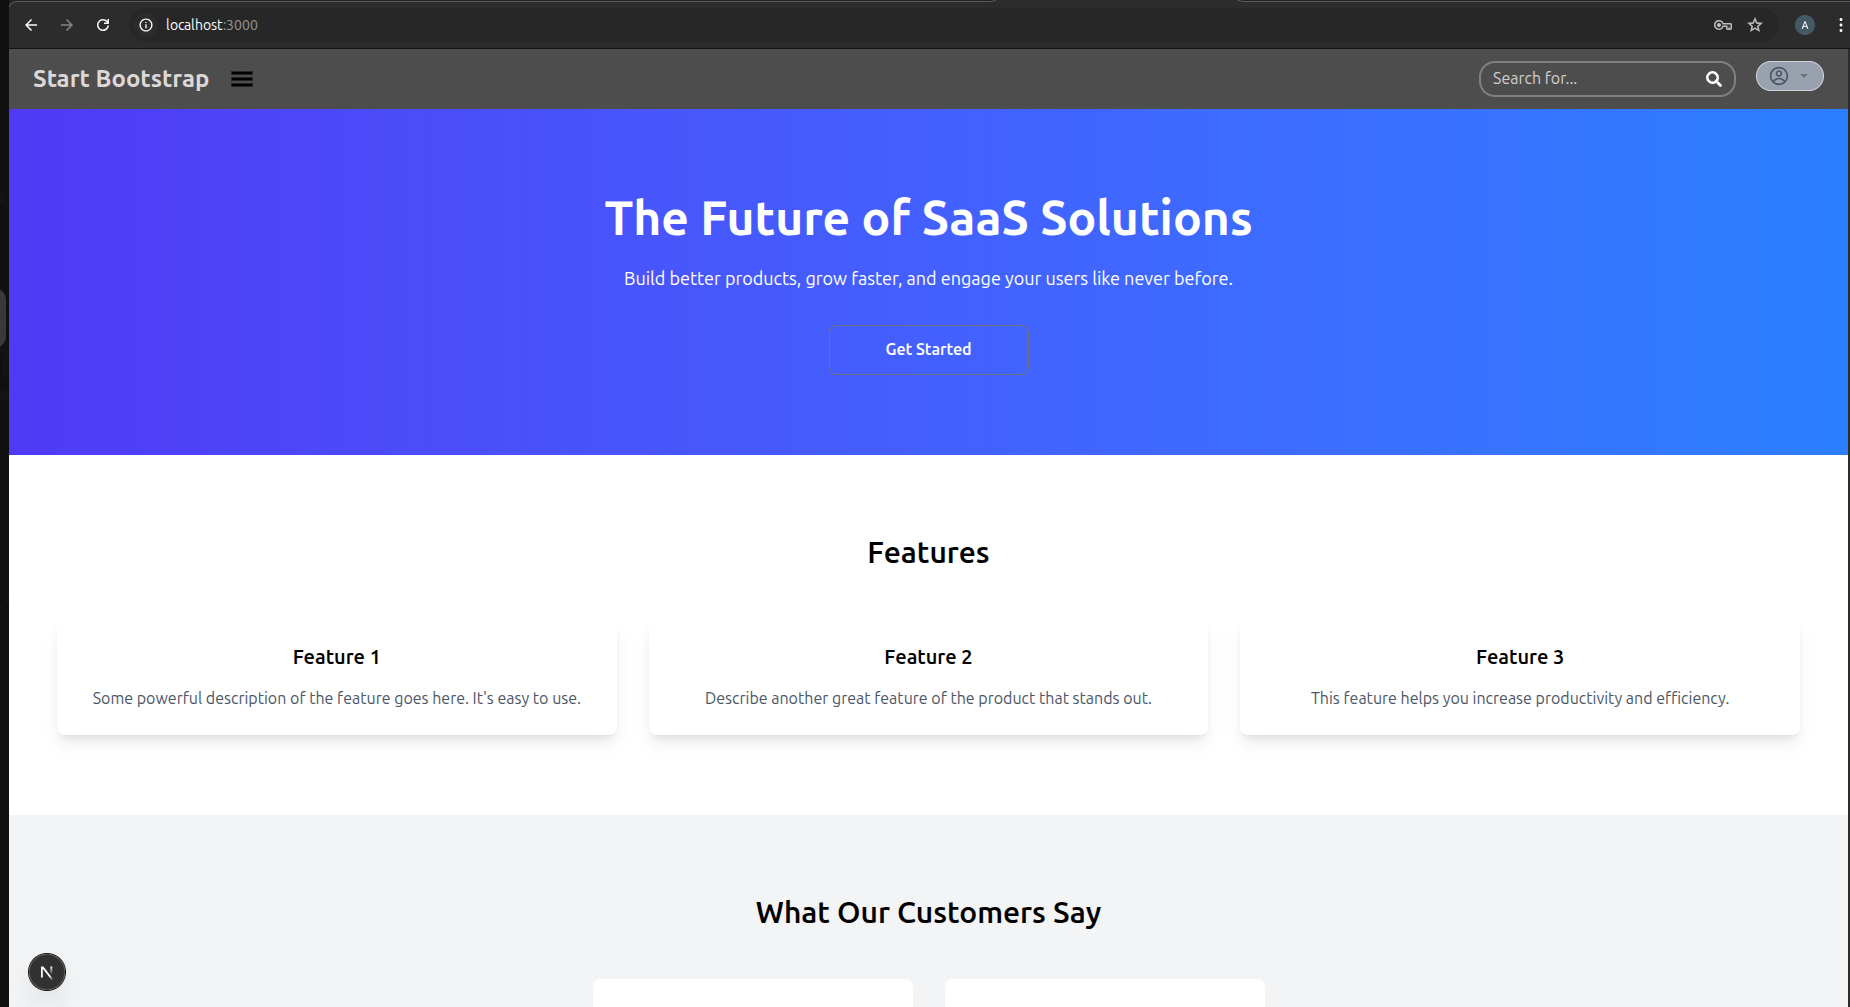
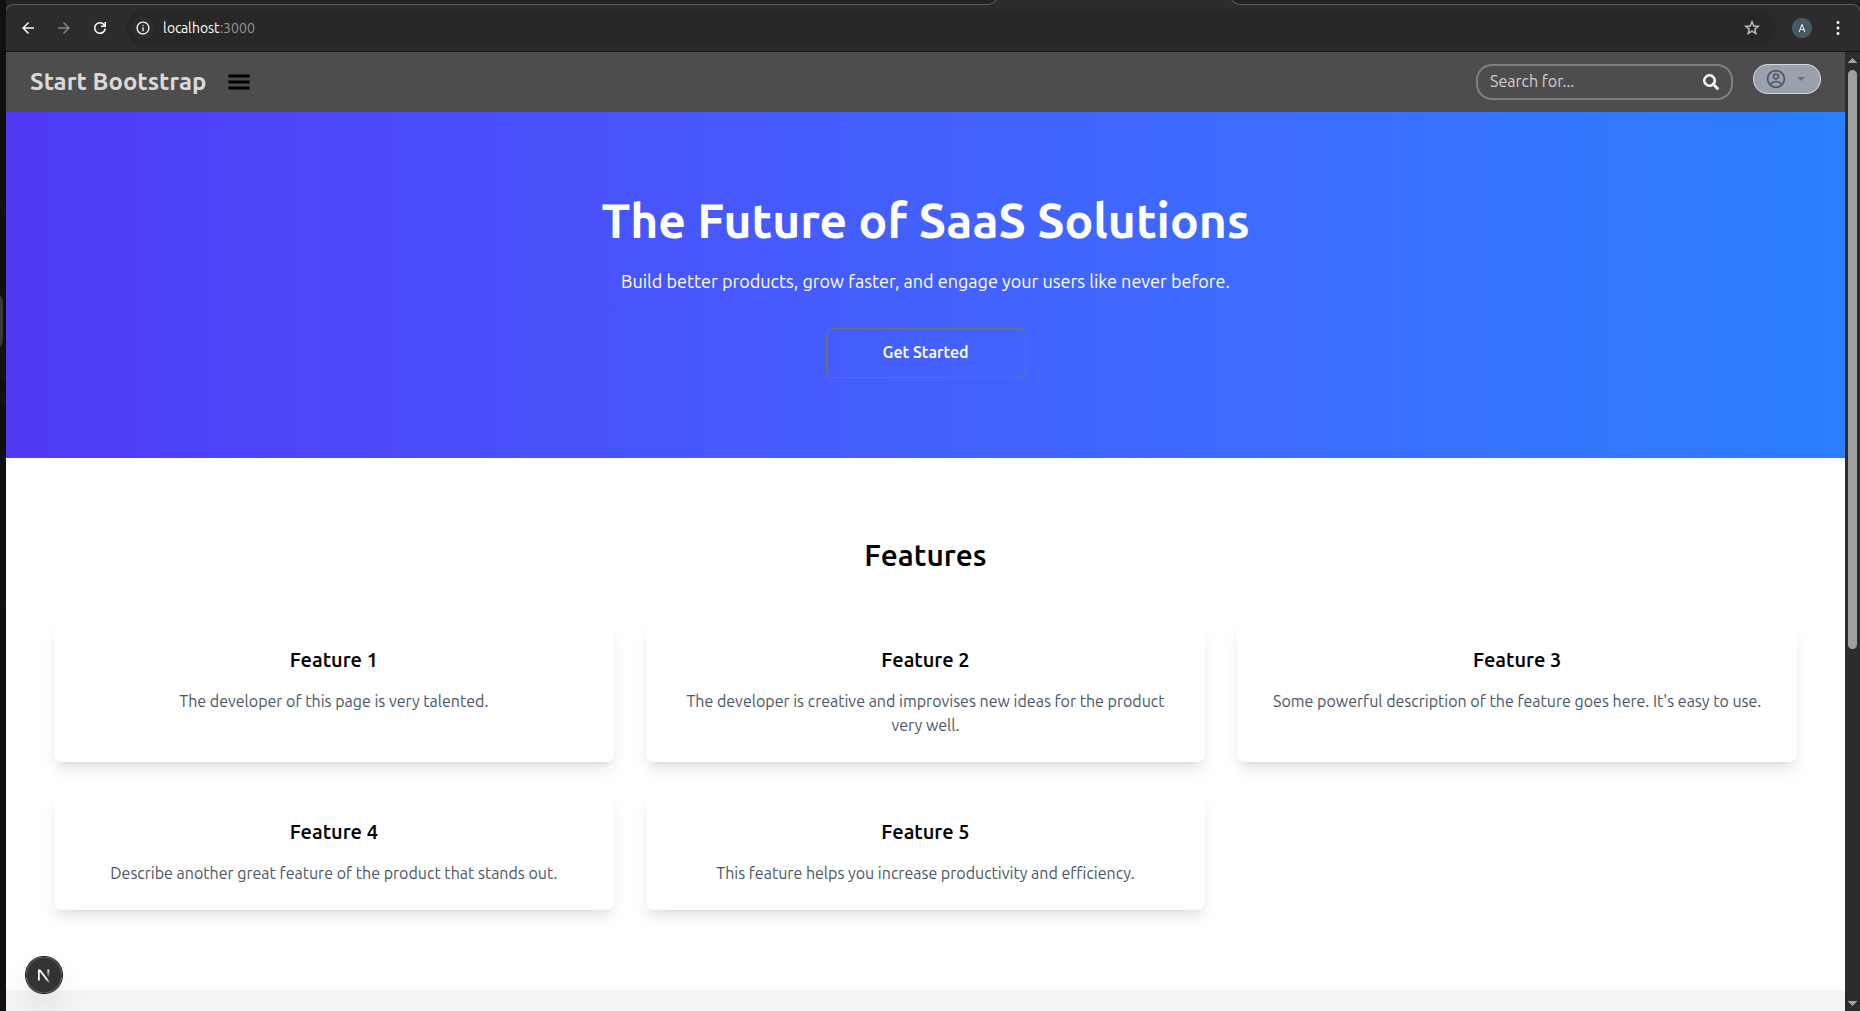
Update README and UI component documentation; add folder structure and enhance feature descriptions

diff --git a/week3/practice/src/app/_utils/Features.jsx b/week3/practice/src/app/_utils/Features.jsx
@@ -1,36 +1,45 @@
 import React from "react";
 import FeatureCard from "@/components/ui/FeatureCard";
 const featuresData = [
-  {
-    title: "Feature 1",
-    description: "Some powerful description of the feature goes here. It's easy to use.",
-  },
-  {
-    title: "Feature 2",
-    description: "Describe another great feature of the product that stands out.",
-  },
-  {
-    title: "Feature 3",
-    description: "This feature helps you increase productivity and efficiency.",
-  },
+    {
+        title: "Feature 1",
+        description: "The developer of this page is very talented."
+    },
+    {
+        title: "Feature 2",
+        description: "The developer is creative and improvises new ideas for the product very well."
+    },
+    {
+        title: "Feature 3",
+        description: "Some powerful description of the feature goes here. It's easy to use.",
+    },
+    {
+        title: "Feature 4",
+        description: "Describe another great feature of the product that stands out.",
+    },
+    {
+        title: "Feature 5",
+        description: "This feature helps you increase productivity and efficiency.",
+    },
+
 ];
 
 const Features = () => {
-  return (
-    <section className="py-20 px-6 sm:px-12">
-      <h2 className="text-3xl font-semibold text-center mb-12">Features</h2>
+    return (
+        <section className="py-20 px-6 sm:px-12">
+            <h2 className="text-3xl font-semibold text-center mb-12">Features</h2>
 
-      <div className="grid grid-cols-1 sm:grid-cols-2 lg:grid-cols-3 gap-8">
-        {featuresData.map((item, index) => (
-          <FeatureCard
-            key={index}
-            title={item.title}
-            description={item.description}
-          />
-        ))}
-      </div>
-    </section>
-  );
+            <div className="grid grid-cols-1 sm:grid-cols-2 lg:grid-cols-3 gap-8">
+                {featuresData.map((item, index) => (
+                    <FeatureCard
+                        key={index}
+                        title={item.title}
+                        description={item.description}
+                    />
+                ))}
+            </div>
+        </section>
+    );
 };
 
 export default Features;

diff --git a/week3/practice/README.md b/week3/practice/README.md
@@ -1,5 +1,7 @@
 # WEEK 3 
+
 ## ScreenShots
+
 ### Login Page
 
 This is the login page. I have implemented a middleware that checks the user's login status on every route request. It checks whether the user is logged in by verifying if the username is stored in the local storage. If the user is not logged in, they are redirected to the login page.
@@ -77,6 +79,134 @@ This is the profile page for larger screens.
 ---
 
 
+## Folder Structure
+
+        └── practice/
+            ├── README.md
+            ├── eslint.config.mjs
+            ├── jsconfig.json
+            ├── next.config.mjs
+            ├── package.json
+            ├── postcss.config.mjs
+            └── src/
+                ├── app/
+                │   ├── globals.css
+                │   ├── layout.js
+                │   ├── page.jsx
+                │   ├── _utils/
+                │   │   ├── AreaChart.jsx
+                │   │   ├── BarChart.jsx
+                │   │   ├── Features.jsx
+                │   │   ├── Footer.jsx
+                │   │   ├── Header.jsx
+                │   │   ├── Hero.jsx
+                │   │   ├── LoginMiddleware.jsx
+                │   │   ├── Sidebar.jsx
+                │   │   ├── Table.jsx
+                │   │   └── Testimonials.jsx
+                │   ├── about/
+                │   │   └── page.jsx
+                │   ├── dashboard/
+                │   │   ├── page.jsx
+                │   │   ├── (profiles)/
+                │   │   │   └── profile/
+                │   │   │       └── page.jsx
+                │   │   └── users/
+                │   │       ├── page.jsx
+                │   │       └── Users.jsx
+                │   ├── layout/
+                │   │   └── [slug]/
+                │   │       └── page.jsx
+                │   ├── login/
+                │   │   ├── Login.jsx
+                │   │   └── page.jsx
+                │   └── page/
+                │       └── [pageId]/
+                │           └── page.jsx
+                ├── components/
+                │   ├── UI-COMPONENT-DOCS.md
+                │   └── ui/
+                │       ├── Button.jsx
+                │       ├── Card.jsx
+                │       ├── ChartCard.jsx
+                │       ├── FeatureCard.jsx
+                │       ├── Modal.jsx
+                │       └── TestimonailsCard.jsx
+                └── pages/
+                    └── profile.jsx
+
+
+## Components List
+
+### The Card Component
+I have made Card as a reusable component which can be used differently each time different props are passed to it.
+
+`const Card = ({height='120px',width='310px',label='Default Label',details='This is the default text for details',color ='red', handleModalOpen=''})`
+
+As you can see, it takes multiple props which include height, width, label, details and color. In case I do not want to pass props, this component accepts default props also which are specified above. Using different props we can render different cards with different information. Also this component is used along with the popup modal and hence accepts a `handleModalOpen` function that handles opening the popup modal as the name suggests.
+
+---
+
+### The PopUp Modal Component
+This component is also reusable and accepts props:
+
+`const Modal = ({handleModalClose,modalDetails})`
+
+So it takes two props, one is `handleModalClose` that is a function which will be called when closing the modal by clicking the cross button or by clicking outside the information card.  
+The other prop is the `modalDetails`, this is the information that will be displayed inside the modal. By passing these two props we can use this modal differently everytime.
+
+---
+
+### The Button Component
+This is a simple reusable button component:
+
+`const Button = ({title, handleClick,color="white", background = "gray", height="50px", width="200px", radius="rounded-lg"})`
+
+It takes multiple props for customizing the button like text color, background color, height, width and the border radius.  
+If no props are passed, the button will use the default props mentioned above.  
+This button also accepts a `handleClick` function which will run whenever the button is clicked.  
+Using these props we can create different types of buttons for different needs.
+
+---
+
+### The ChartCard Component
+This component is used to display charts inside a card layout:
+
+`const ChartCard = ({ title, logo, children })`
+
+It takes three props:  
+- `title` to show the name of the chart  
+- `logo` to show any icon or symbol  
+- `children` which will be the actual chart
+
+By passing different charts as children, we can reuse the same card structure for any type of chart.
+
+---
+
+### The FeatureCard Component
+This is a reusable card to show small information sections:
+
+`const FeatureCard = ({ title, description })`
+
+It accepts two props which are `title` and `description`.  
+Both of these props are displayed inside a styled card layout.  
+By changing the title and description, we can use this card anywhere to show simple feature blocks.
+
+---
+
+### The TestimonialCard Component
+This component is used to display user or client testimonials:
+
+`const TestimonialCard = ({ text, name, title })`
+
+It accepts three props:  
+- `text` which is the testimonial message  
+- `name` which is the user's name  
+- `title` which is the user's profession or role  
+
+By passing different values we can display different testimonials using the same card layout.
+
+---
 
 
 ## DAY 1 

diff --git a/week3/practice/src/components/UI-COMPONENT-DOCS.md b/week3/practice/src/components/UI-COMPONENT-DOCS.md
@@ -1,9 +1,72 @@
-# UI COMPONENTS USAGE DOCS 
+# UI COMPONENTS USAGE DOCS
 
 ## The Card Component
-I have made Card as a reusable component which can be used differently each time different props are passed to it , 
-`const Card = ({height='120px',width='310px',label='Default Label',details='This is the default text for details',color ='red', handleModalOpen=''})`
-as ypu can see that it takes multiple props which include height, width, label, details and color . incase i do not want to pass props this component accept default proprs also which are specified above. using different props we can render different cards with diffrent informaton. also this component is used along with the popup modal and hence accepts a `handleModalOpen` function that handles the closing of the popup modal as the name suggests,
+I have made Card as a reusable component which can be used differently each time different props are passed to it.
 
-## The PopUp ModalComponent 
-this component is also reusable and accepts props `const Modal = ({handleModalClose,modalDetails})`. So it takes two props, one is handleModalClose that is a function which will be called when closing the modal by clicking the cross button or outside the information card. The other prop is the modalDetails, this is the information that will be displayed by the modal. by passing these two props we can use this modal differently everytime.
+`const Card = ({height='120px',width='310px',label='Default Label',details='This is the default text for details',color ='red', handleModalOpen=''})`
+
+As you can see, it takes multiple props which include height, width, label, details and color. In case I do not want to pass props, this component accepts default props also which are specified above. Using different props we can render different cards with different information. Also this component is used along with the popup modal and hence accepts a `handleModalOpen` function that handles opening the popup modal as the name suggests.
+
+---
+
+## The PopUp Modal Component
+This component is also reusable and accepts props:
+
+`const Modal = ({handleModalClose,modalDetails})`
+
+So it takes two props, one is `handleModalClose` that is a function which will be called when closing the modal by clicking the cross button or by clicking outside the information card.  
+The other prop is the `modalDetails`, this is the information that will be displayed inside the modal. By passing these two props we can use this modal differently everytime.
+
+---
+
+## The Button Component
+This is a simple reusable button component:
+
+`const Button = ({title, handleClick,color="white", background = "gray", height="50px", width="200px", radius="rounded-lg"})`
+
+It takes multiple props for customizing the button like text color, background color, height, width and the border radius.  
+If no props are passed, the button will use the default props mentioned above.  
+This button also accepts a `handleClick` function which will run whenever the button is clicked.  
+Using these props we can create different types of buttons for different needs.
+
+---
+
+## The ChartCard Component
+This component is used to display charts inside a card layout:
+
+`const ChartCard = ({ title, logo, children })`
+
+It takes three props:  
+- `title` to show the name of the chart  
+- `logo` to show any icon or symbol  
+- `children` which will be the actual chart
+
+By passing different charts as children, we can reuse the same card structure for any type of chart.
+
+---
+
+## The FeatureCard Component
+This is a reusable card to show small information sections:
+
+`const FeatureCard = ({ title, description })`
+
+It accepts two props which are `title` and `description`.  
+Both of these props are displayed inside a styled card layout.  
+By changing the title and description, we can use this card anywhere to show simple feature blocks.
+
+---
+
+## The TestimonialCard Component
+This component is used to display user or client testimonials:
+
+`const TestimonialCard = ({ text, name, title })`
+
+It accepts three props:  
+- `text` which is the testimonial message  
+- `name` which is the user's name  
+- `title` which is the user's profession or role  
+
+By passing different values we can display different testimonials using the same card layout.
+
+---
+
